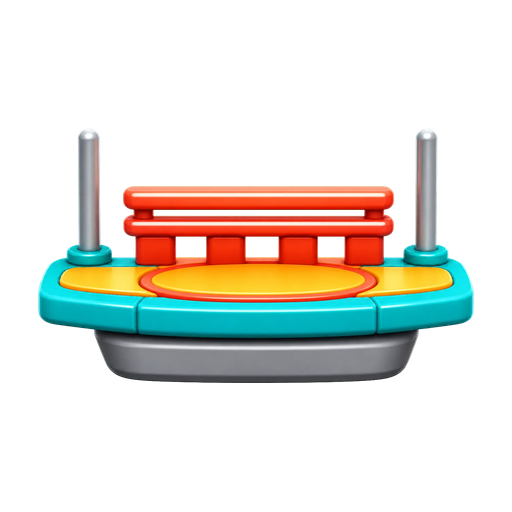
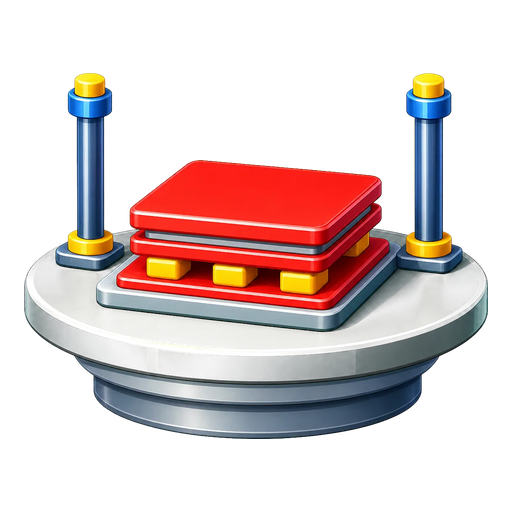
Use launch platform for rocket takeoff

diff --git a/public/word-rocket.html b/public/word-rocket.html
@@ -763,6 +763,22 @@
     imgCache.set(path, wrap);
     return wrap;
   }
+  function loadLocalImg(path) {
+    if (!path) return null;
+    const key = `local:${path}`;
+    if (imgCache.has(key)) return imgCache.get(key);
+    const img = new Image();
+    const wrap = { complete: false, naturalWidth: 0, naturalHeight: 0, _src: null };
+    img.onload = () => {
+      wrap._src = img;
+      wrap.naturalWidth = img.naturalWidth;
+      wrap.naturalHeight = img.naturalHeight;
+      wrap.complete = true;
+    };
+    img.src = path;
+    imgCache.set(key, wrap);
+    return wrap;
+  }
 
   // Constant on-screen icon size regardless of source dimensions
   const ICON_SIZE = 96;
@@ -773,6 +789,7 @@
   const levelObjectsCache = new Map();
   let rocketImg = null;
   let flameImg = null;
+  let launchPlatformImg = null;
   let levelProgress = loadProgress();
   let rocketBalance = loadRocketBalance();
   let rocketEmptyTimer = null;
@@ -1406,7 +1423,7 @@
     ctx.drawImage(src, cx - w/2, cy - h/2, w, h);
   }
 
-  const GROUND_H = 80;
+  const PLATFORM_MAX_SIZE = 320;
   function takeoffProgress() {
     if (state.awaitingStart) return 0;
     if (!state.takeoff || !state.takeoff.active) return 1;
@@ -1416,22 +1433,18 @@
   // ease-in-out cubic
   const easeInOut = p => p < 0.5 ? 4*p*p*p : 1 - Math.pow(-2*p+2, 3)/2;
 
-  function drawGround() {
+  function launchPlatformSize() {
+    return Math.max(230, Math.min(PLATFORM_MAX_SIZE, W * 0.58));
+  }
+
+  function drawLaunchPlatform() {
+    if (!launchPlatformImg || !launchPlatformImg.complete || !launchPlatformImg.naturalWidth) return;
     const p = takeoffProgress();
-    // Ground slides down off-screen as rocket lifts
     const eased = easeInOut(p);
-    const yTop = H - GROUND_H + eased * GROUND_H;
-    if (yTop >= H) return;
-    // grass strip
-    const g = pctx.createLinearGradient(0, yTop, 0, H);
-    g.addColorStop(0, '#86c45a'); g.addColorStop(0.4, '#5a9a3a'); g.addColorStop(1, '#3a7a2a');
-    pctx.fillStyle = g; pctx.fillRect(0, yTop, W, H - yTop);
-    // grass blades on top edge
-    pctx.strokeStyle = '#2d5a1a'; pctx.lineWidth = 2;
-    for (let x = 4; x < W; x += 10) {
-      const h = 6 + ((x*7) % 8);
-      pctx.beginPath(); pctx.moveTo(x, yTop); pctx.lineTo(x + 1, yTop - h); pctx.stroke();
-    }
+    const size = launchPlatformSize();
+    const cy = H - size * 0.07 + eased * size * 0.58;
+    if (cy - size / 2 > H) return;
+    drawImageContained(pctx, launchPlatformImg, W / 2, cy, size);
   }
 
   function drawRocket() {
@@ -1441,7 +1454,7 @@
     // During takeoff, rocket sits on ground then lifts
     const p = takeoffProgress();
     const eased = easeInOut(p);
-    const groundedY = H - GROUND_H - ROCKET_SIZE/2 + 6; // resting on grass
+    const groundedY = H - launchPlatformSize() * 0.257 - ROCKET_SIZE/2 + 10;
     r.x = W/2;
     r.y = groundedY + (normalY - groundedY) * eased;
     let sx = 0, sy = 0;
@@ -1563,7 +1576,7 @@
     pctx.clearRect(0,0,W,H);
     fctx.clearRect(0,0,W,H);
     if (state.running || state.screen === 'LEVEL_INTRO') {
-      if (state.takeoff && (state.takeoff.active || takeoffProgress() < 1)) drawGround();
+      if (state.takeoff && (state.takeoff.active || takeoffProgress() < 1)) drawLaunchPlatform();
       drawRocket();
       if (state.current) drawFalling(state.current, t);
     }
@@ -2025,6 +2038,7 @@
     LEVELS = levels.filter(l => Number.isFinite(Number(l.id)));
     rocketImg = loadImg('shared/rocket.webp');
     flameImg = loadImg('shared/flame.webp');
+    launchPlatformImg = loadLocalImg('assets/rocket-launch-platform.webp');
     const statusEl = document.getElementById('loadStatus');
 
     // Warm the first level only; selected levels still load independently.